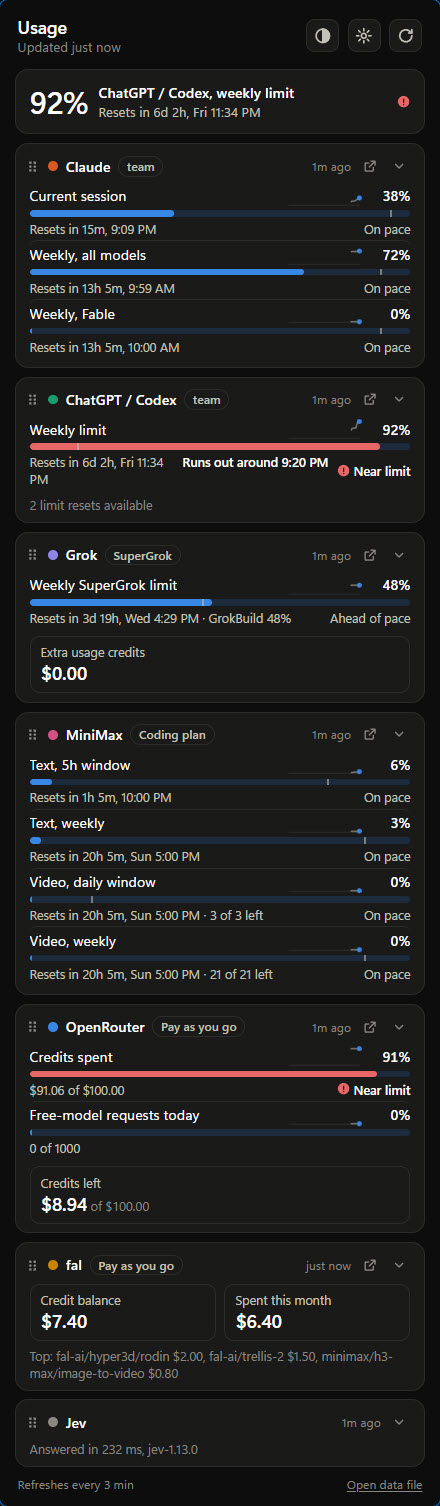
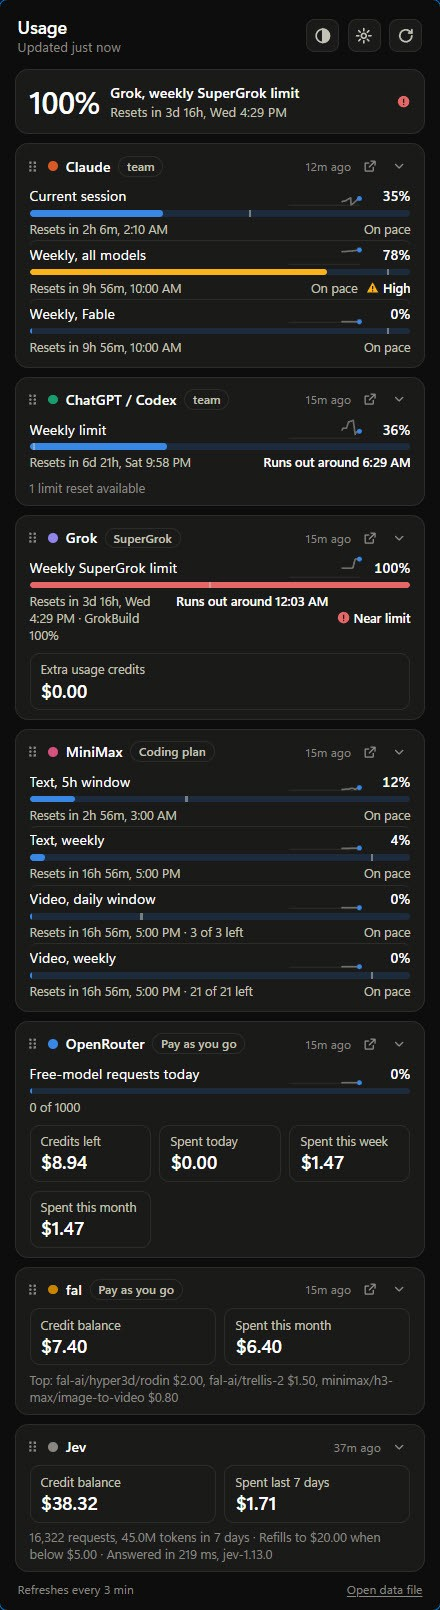
Release 0.2.0
New README screenshots of the panel, settings and tray tooltip, each with a caption.

diff --git a/README.md b/README.md
@@ -2,10 +2,18 @@
 
 Augur shows how much of your AI plans and credits you have used, in one place: a tray icon on Windows, a menu-bar icon on macOS, and a web app you can add to a phone's home screen. It reads the same numbers each provider's own usage page shows, refreshes each one on its own schedule, and warns you when a limit is running out faster than its window resets.
 
-<p align="center">
-  <img src="docs/images/dashboard.jpg" alt="The Augur panel with Claude, ChatGPT, Grok, MiniMax, OpenRouter, fal and Jev cards" width="320">
-  <img src="docs/images/settings.jpg" alt="Augur settings: providers, appearance, alerts, custom providers, phone sync" width="320">
-</p>
+<table align="center">
+  <tr>
+    <td align="center" valign="top" width="50%">
+      <img src="docs/images/dashboard.jpg" alt="The Augur panel with Claude, ChatGPT, Grok, MiniMax, OpenRouter, fal and Jev cards" width="300"><br>
+      <sub>The panel shows your most-used limit at the top and a card for each provider below it.</sub>
+    </td>
+    <td align="center" valign="top" width="50%">
+      <img src="docs/images/settings.jpg" alt="Augur settings: providers, appearance, alerts, custom providers, phone sync and updates" width="300"><br>
+      <sub>In settings you choose what each card shows, how often it refreshes, and when Augur warns you.</sub>
+    </td>
+  </tr>
+</table>
 
 ## What it tracks
 
@@ -37,7 +45,12 @@ To see your TypeSafe balance, open Jev in settings and choose Sign in. Augur kee
 
 ## Using it
 
-Click the icon to open the panel. The ring on the icon shows your most-used limit, and its color turns amber at 75% and red at 90%.
+Click the icon to open the panel. The ring on the icon shows your most-used limit, and its color turns amber at 75% and red at 90%. Hover over it for one line per provider without opening the panel.
+
+<p align="center">
+  <img src="docs/images/tray-tooltip.jpg" alt="The tray tooltip listing each provider's usage on one line" width="185"><br>
+  <sub>Hovering over the tray icon shows every provider at a glance.</sub>
+</p>
 
 Each meter shows how much is used, when it resets, and a thin mark on the bar for where even pace would put you. Click a meter to see the last seven days, with dashed lines at each reset. Drag a card by its handle to change the order, and collapse cards you only check now and then. The panel switches to two columns when one column would not fit on the screen, or you can pick one or two columns in settings.
 

diff --git a/CHANGELOG.md b/CHANGELOG.md
@@ -4,6 +4,8 @@ All notable changes to Augur are listed here. Each entry starts with `[Visible]`
 
 ## [Unreleased]
 
+## [0.2.0] - 2026-09-27
+
 ### Changed
 
 - [Visible] [Providers] **Each provider refreshes on its own schedule.** The app-wide refresh setting is gone. Providers refresh every 15 minutes unless you pick another interval for one, from every 5 minutes to once a week, and Jev still defaults to weekly. A provider whose last read failed tries again after 5 minutes instead of waiting out its full interval.
